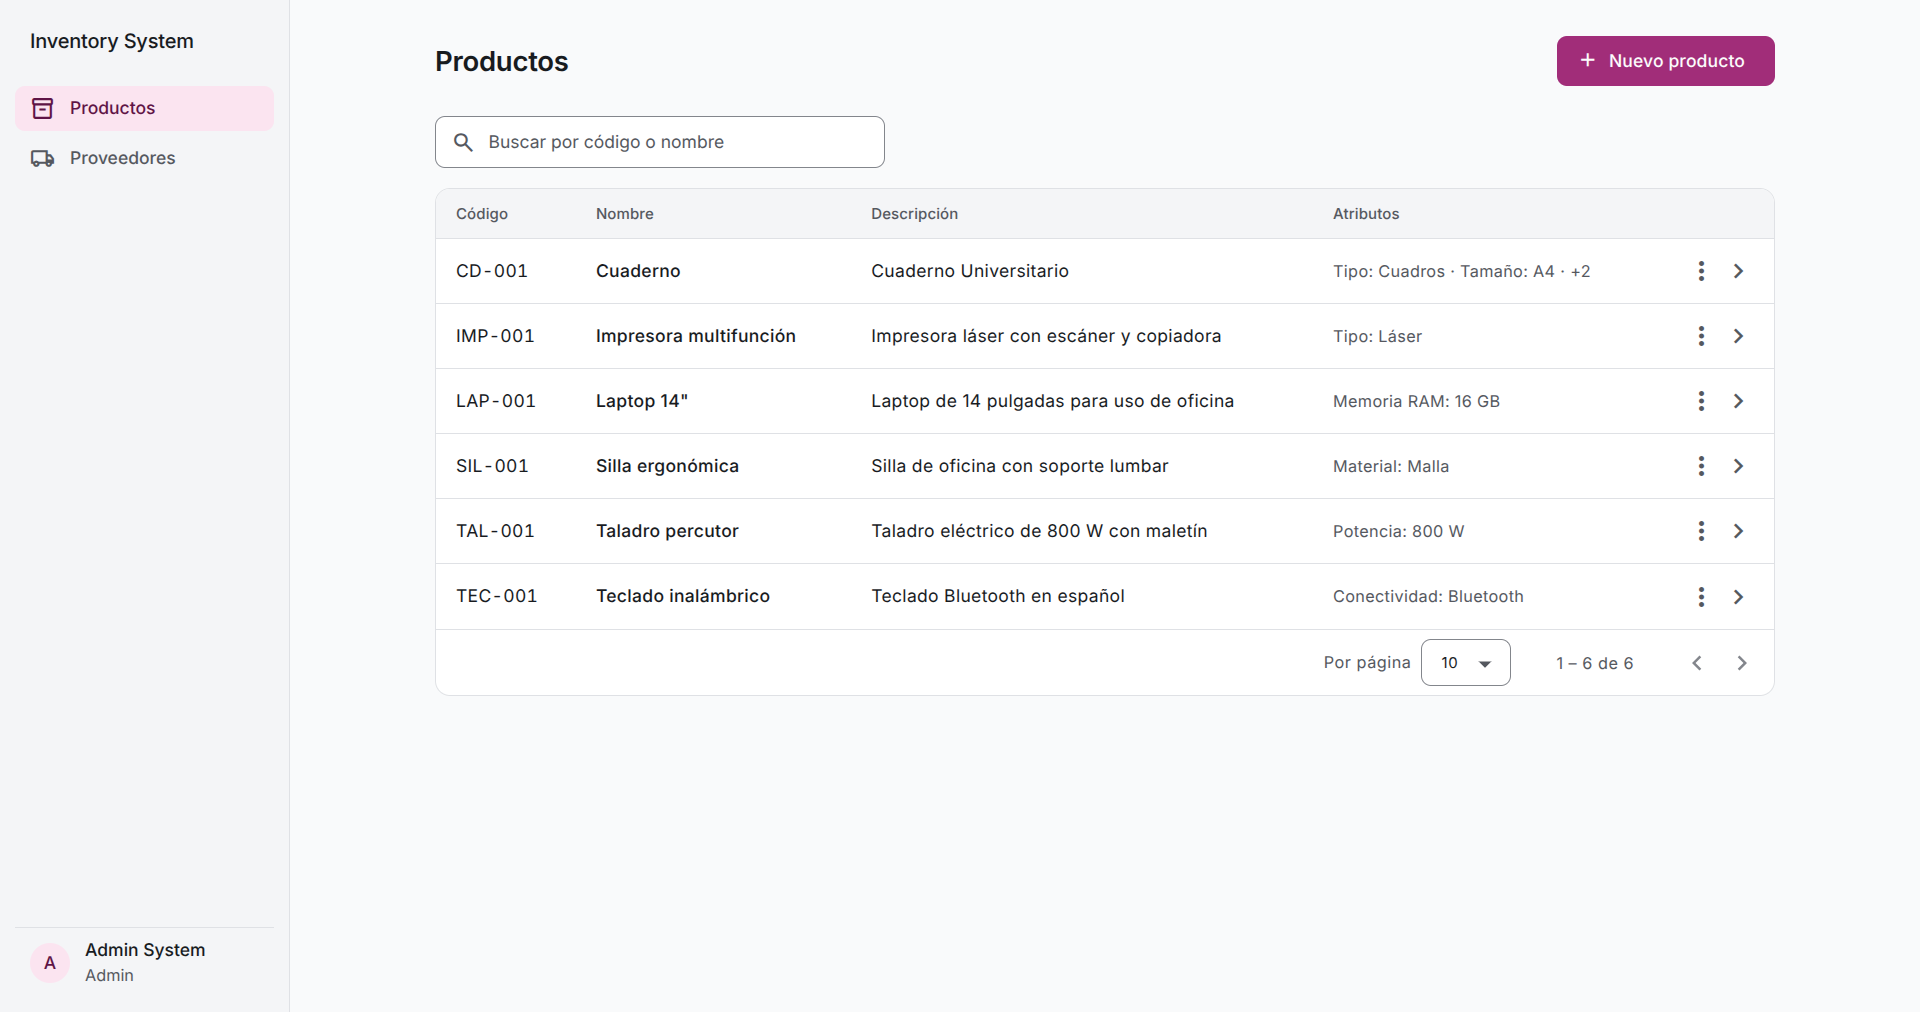
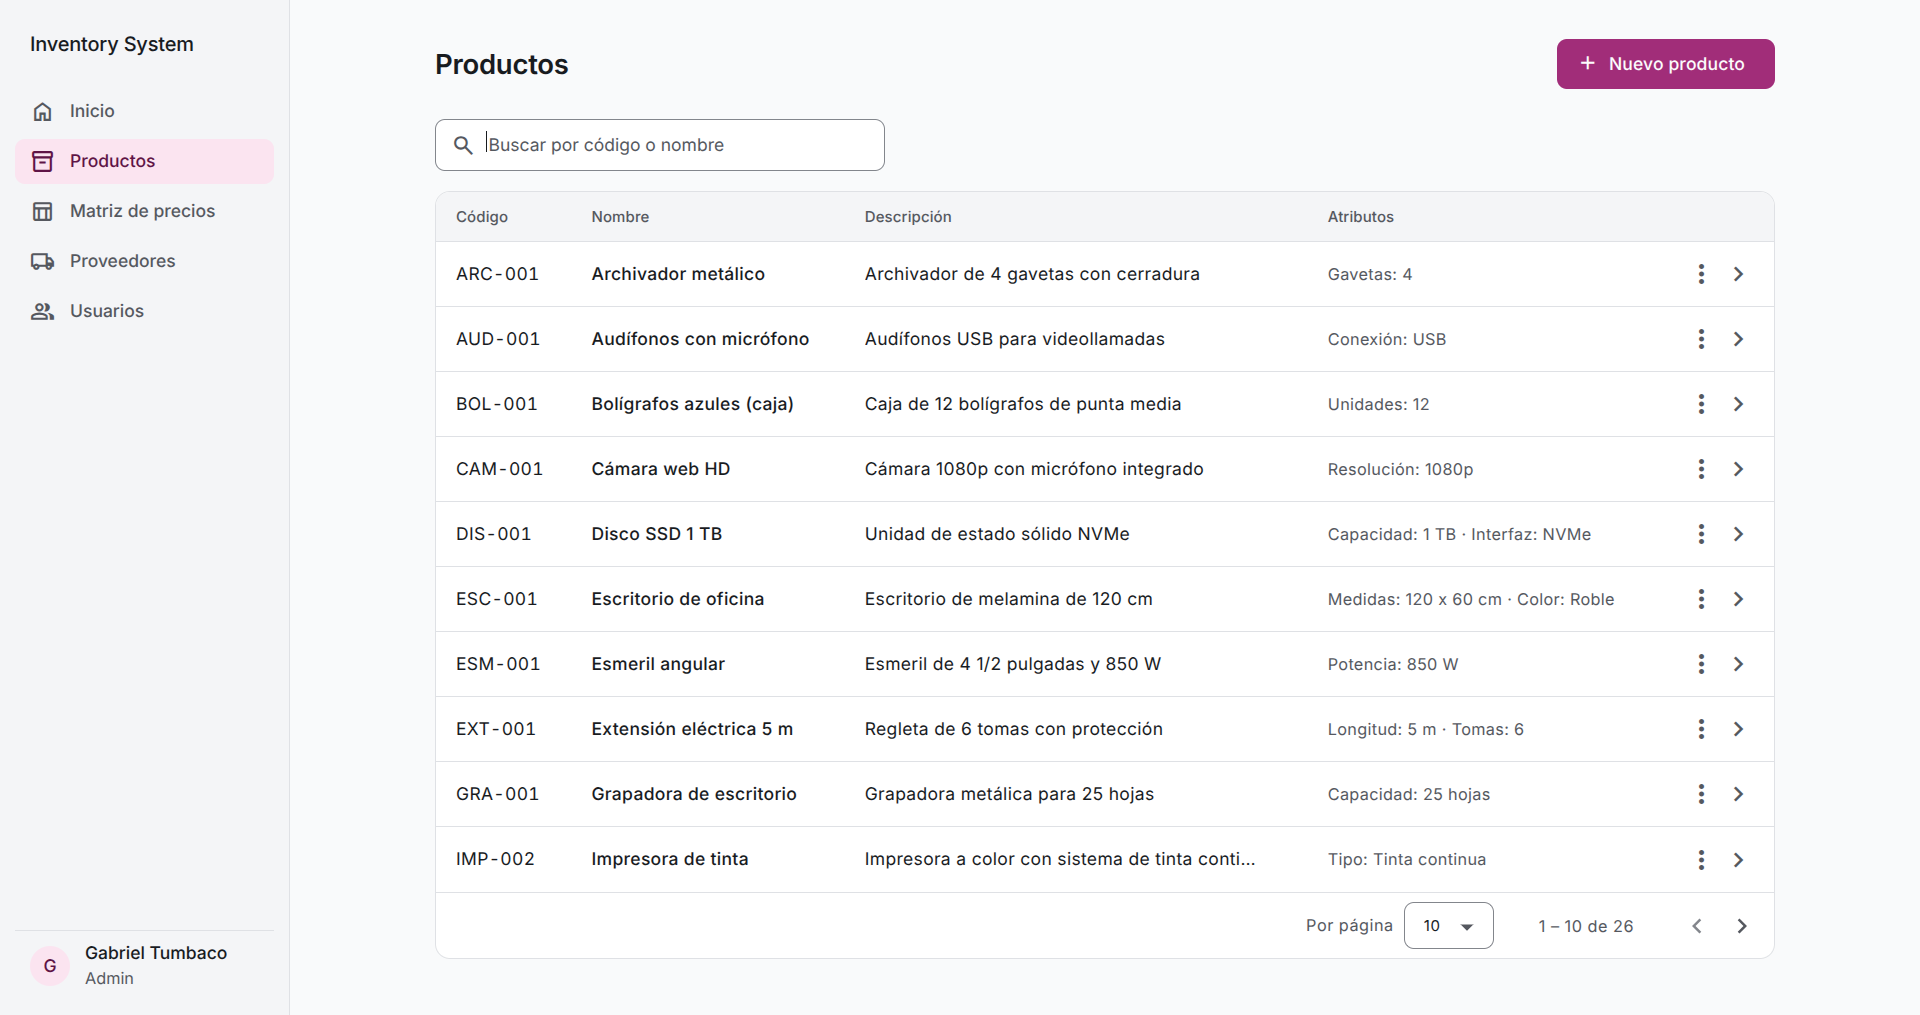
docs(readme): update screenshots

diff --git a/README.md b/README.md
@@ -4,11 +4,11 @@ Product inventory system: Angular, .NET 10 and SQL Server. Users log in with JWT
 
 ## Screenshots
 
-![Login](frontend/docs/ui/login.png)
+![Home dashboard](frontend/docs/ui/dashboard.png)
 
 ![Products list](frontend/docs/ui/products_list.png)
 
-![Product detail with suppliers and lots](frontend/docs/ui/product_detail.png)
+![Price matrix by supplier](frontend/docs/ui/price_matrix.png)
 
 ## Run with Docker
 
